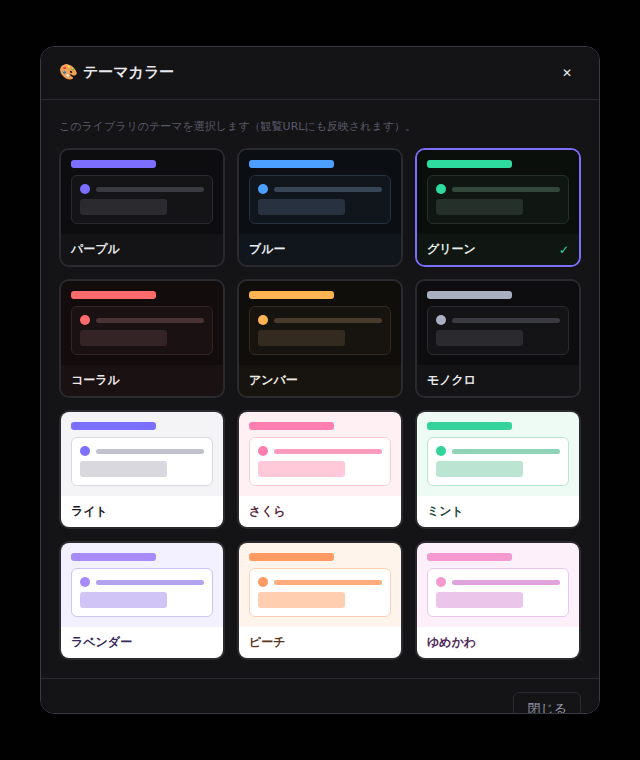
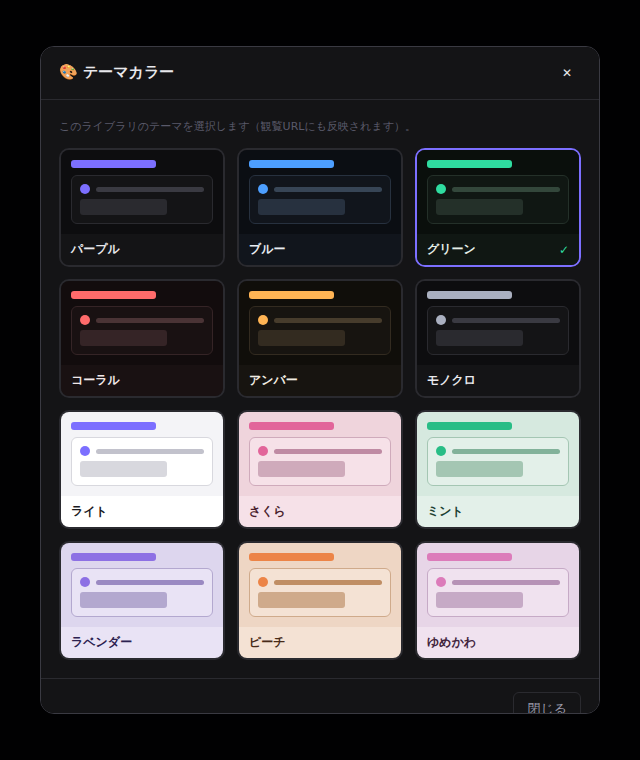
OGREF_library: 可愛い系テーマの背景を抑えめのくすみトーンに調整 (#128)
- さくら/ミント/ラベンダー/ピーチ/ゆめかわ の背景を白寄りから落ち着いた
  くすみパステルに変更し眩しさを軽減（アクセントもやや抑える）
- プレビュー画像を更新

https://claude.ai/code/session_01GUPEzf3SoFbKHEyqUcaPq3

Changed region(s): [[0.0938, 0.5447, 0.9062, 0.8776]]

diff --git a/OGREF_library.html b/OGREF_library.html
@@ -418,7 +418,7 @@ function notify(m){ const n=$('notif'); n.textContent=m; n.style.display='block'
 function esc(s){ return String(s==null?'':s).replace(/[&<>"']/g,c=>({'&':'&amp;','<':'&lt;','>':'&gt;','"':'&quot;',"'":'&#39;'}[c])); }
 function uid(){ return Math.random().toString(36).slice(2,10)+Date.now().toString(36); }
 window.closeModal=id=>hide(id);
-const APP_BUILD='build-0607k';   // 最新版を読めているか確認用（ヘッダーに表示）
+const APP_BUILD='build-0607l';   // 最新版を読めているか確認用（ヘッダーに表示）
 try{ const _vl=$('verLabel'); if(_vl)_vl.textContent=APP_BUILD; }catch(e){}
 
 // ===== テーマカラー（ライブラリごと・アクセント＋背景） =====
@@ -430,11 +430,11 @@ const THEMES={
   amber:{label:'アンバー', v:{'--bg':'#100e0a','--bg2':'#171410','--bg3':'#201b14','--bg4':'#2a231a','--border':'#332b20','--border2':'#473c2c','--text':'#f1ece2','--text2':'#b5a890','--text3':'#6e6450','--accent':'#ffb454','--accent2':'#f59e2e'}},
   mono:{label:'モノクロ', v:{'--bg':'#0d0d0f','--bg2':'#141416','--bg3':'#1c1c1f','--bg4':'#232327','--border':'#2a2a2f','--border2':'#3a3a42','--text':'#eaeaee','--text2':'#9a9aa2','--text3':'#5a5a62','--accent':'#aab0c0','--accent2':'#8b91a3'}},
   light:{label:'ライト', v:{'--bg':'#f4f4f7','--bg2':'#ffffff','--bg3':'#ececef','--bg4':'#e2e2e8','--border':'#d8d8de','--border2':'#c2c2cc','--text':'#1a1a1f','--text2':'#5a5a6a','--text3':'#9a9aaa','--accent':'#7c6fff','--accent2':'#5a4fff'}},
-  sakura:{label:'さくら', v:{'--bg':'#fff0f4','--bg2':'#ffffff','--bg3':'#ffe3ec','--bg4':'#ffd6e3','--border':'#ffc9da','--border2':'#ff9bbd','--text':'#5a2738','--text2':'#a85f7a','--text3':'#d199b0','--accent':'#ff7eb0','--accent2':'#ff5a9e'}},
-  mint:{label:'ミント', v:{'--bg':'#eefaf4','--bg2':'#ffffff','--bg3':'#ddf3e9','--bg4':'#ccecdd','--border':'#bce4d2','--border2':'#8fd3b6','--text':'#1f4a3a','--text2':'#4f7e6c','--text3':'#93c2ae','--accent':'#34d399','--accent2':'#14b87f'}},
-  lavender:{label:'ラベンダー', v:{'--bg':'#f3f0ff','--bg2':'#ffffff','--bg3':'#e9e3ff','--bg4':'#ddd4ff','--border':'#cfc4f5','--border2':'#b3a3ef','--text':'#382a5a','--text2':'#6f5fa0','--text3':'#a99cd1','--accent':'#a78bfa','--accent2':'#8b6cf0'}},
-  peach:{label:'ピーチ', v:{'--bg':'#fff4ec','--bg2':'#ffffff','--bg3':'#ffe7d6','--bg4':'#ffdcc4','--border':'#ffceb0','--border2':'#ffab7d','--text':'#5a3622','--text2':'#a8714f','--text3':'#d1a888','--accent':'#ff9a62','--accent2':'#ff7e3a'}},
-  dreamy:{label:'ゆめかわ', v:{'--bg':'#fdf0fb','--bg2':'#ffffff','--bg3':'#f7e1f5','--bg4':'#f0d3ef','--border':'#ecc6ea','--border2':'#e0a3de','--text':'#4f2a5a','--text2':'#9a5fa0','--text3':'#cf9cd1','--accent':'#f49ad1','--accent2':'#ec7ac4'}}
+  sakura:{label:'さくら', v:{'--bg':'#efd4dc','--bg2':'#f6e1e8','--bg3':'#e4c6d1','--bg4':'#d9b8c5','--border':'#cfaabb','--border2':'#bf8aa3','--text':'#4a1f2d','--text2':'#855065','--text3':'#a87f92','--accent':'#e2659a','--accent2':'#d14d87'}},
+  mint:{label:'ミント', v:{'--bg':'#d6e9df','--bg2':'#e3f0e9','--bg3':'#c6ddd1','--bg4':'#b6d2c3','--border':'#a4c6b3','--border2':'#82b29a','--text':'#1b4032','--text2':'#436e5c','--text3':'#79a392','--accent':'#28bd86','--accent2':'#179f71'}},
+  lavender:{label:'ラベンダー', v:{'--bg':'#ddd6ee','--bg2':'#e9e3f5','--bg3':'#cfc6e3','--bg4':'#c2b8da','--border':'#b3a8cf','--border2':'#9a89c2','--text':'#2c2150','--text2':'#5b4d8a','--text3':'#8a7cb3','--accent':'#8d70e4','--accent2':'#7457d2'}},
+  peach:{label:'ピーチ', v:{'--bg':'#eed6c4','--bg2':'#f4e2d4','--bg3':'#e3c5ab','--bg4':'#d9b89b','--border':'#cfaa8b','--border2':'#c08e64','--text':'#472a18','--text2':'#855736','--text3':'#ad8765','--accent':'#ec8447','--accent2':'#da692c'}},
+  dreamy:{label:'ゆめかわ', v:{'--bg':'#e7d5e7','--bg2':'#f0e2ef','--bg3':'#dbc6db','--bg4':'#d0b8d0','--border':'#c6aac6','--border2':'#b692b6','--text':'#41243d','--text2':'#7e4f84','--text3':'#ad84af','--accent':'#dc7bba','--accent2':'#c95da6'}}
 };
 function applyTheme(key){
   const t=THEMES[key]||THEMES.purple;